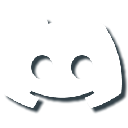
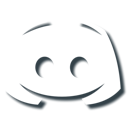
Setup navbar links
Make navbar links functional and tweak style.

diff --git a/templates/index.html b/templates/index.html
@@ -26,14 +26,14 @@
                 </div>
 
                 <div class="links">
-                    <p>Contact:</p>
-                    <img alt="Email" src="../static/images/navbar/email-128.png" />
-                    <img alt="Telegram" src="../static/images/navbar/telegram-128.png" />
-                    <img alt="Discord" src="../static/images/navbar/discord-128.png" />
-    
                     <p>Work:</p>
-                    <img alt="Github" src="../static/images/navbar/github-128.png" />
-                    <img alt="DeviantArt" src="../static/images/navbar/da-128.png" />
+                    <a href="https://github.com/juniperlynx"><img alt="Github" src="../static/images/navbar/github-128.png" /></a>
+                    <a href="https://www.deviantart.com/juniper-lynx"><img alt="DeviantArt" src="../static/images/navbar/da-128.png" /></a>
+
+                    <p>Contact:</p>
+                    <a href="mailto:juniper@jnp-3r.net"><img alt="Email" src="../static/images/navbar/email-128.png" /></a>
+                    <a href="https://t.me/JuniperLynx"><img alt="Telegram" src="../static/images/navbar/telegram-128.png" /></a>
+                    <a href="https://discordapp.com/users/479858079966429184"><img alt="Discord" src="../static/images/navbar/discord-128.png" /></a>
                 </div>
     
                 <div class="drawer">

diff --git a/static/global-style.scss b/static/global-style.scss
@@ -8,6 +8,12 @@ $nav-padding: 0.5rem;
 $content-bg: #111d22;
 $content-fg: #d0edfb;
 
+@mixin navimage {
+    max-width: 75%;
+    display: block;
+    margin: 0.5rem auto 0.5rem;
+}
+
 html, body {
     height: 100%;
     width: 100%;
@@ -105,7 +111,7 @@ nav {
         padding: $nav-padding;
     
         img {
-            max-width: 100%;
+            @include navimage;
         }
     }
     
@@ -123,8 +129,8 @@ nav {
         grid-row: 2;
 
         #avatar {
-            width: 10rem;
-            height: 10rem;
+            width: 7.5rem;
+            height: 7.5rem;
         }
     }
 
@@ -147,8 +153,9 @@ nav {
         padding: $nav-padding;
         grid-column: 1;
         grid-row: 4;
+
         img {
-            max-width: 100%;
+            @include navimage;
         }
     }
 }

diff --git a/static/global-style.css b/static/global-style.css
@@ -83,7 +83,9 @@ nav #burger {
   padding: 0.5rem;
 }
 nav #burger img {
-  max-width: 100%;
+  max-width: 75%;
+  display: block;
+  margin: 0.5rem auto 0.5rem;
 }
 nav #toggle {
   opacity: 0;
@@ -97,8 +99,8 @@ nav .profile {
   grid-row: 2;
 }
 nav .profile #avatar {
-  width: 10rem;
-  height: 10rem;
+  width: 7.5rem;
+  height: 7.5rem;
 }
 nav .drawer {
   width: 10rem;
@@ -119,7 +121,9 @@ nav .links {
   grid-row: 4;
 }
 nav .links img {
-  max-width: 100%;
+  max-width: 75%;
+  display: block;
+  margin: 0.5rem auto 0.5rem;
 }
 
 .content {
